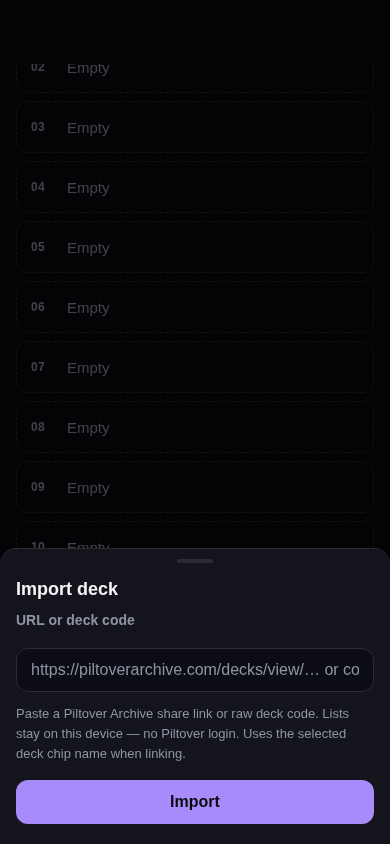
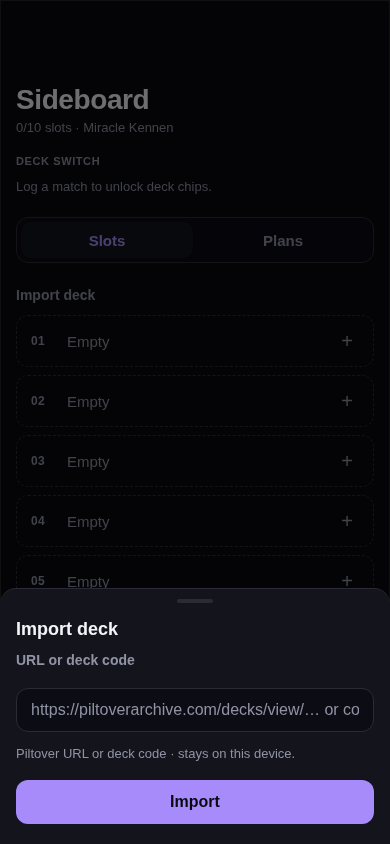
Fix Soft QA Sideboard IA: visible Import link, empty +, shorter copy.
Move Import deck above the slots list so the sheet is reachable without
scrolling, add muted trailing + on empty SlotTiles, and trim DECK SWITCH
and Import sheet helper text to one line each.

diff --git a/app/(tabs)/sideboard.tsx b/app/(tabs)/sideboard.tsx
@@ -484,9 +484,8 @@ export default function SideboardScreen() {
               ))}
             </View>
           ) : (
-            <Text style={styles.hint}>
-              Log a match to unlock deck chips. Sideboard stays keyed to the
-              selected deck name.
+            <Text style={styles.hint} numberOfLines={1}>
+              Log a match to unlock deck chips.
             </Text>
           )}
         </View>
@@ -499,6 +498,16 @@ export default function SideboardScreen() {
 
         {tab === 'Slots' ? (
           <View style={styles.block}>
+            <Pressable
+              onPress={() => setImportOpen(true)}
+              hitSlop={8}
+              accessibilityRole="button"
+              accessibilityLabel="Import deck"
+              style={styles.quietLink}
+            >
+              <Text style={styles.quietLinkText}>Import deck</Text>
+            </Pressable>
+
             <View style={styles.slots}>
               {Array.from({ length: SIDEBOARD_MAX }).map((_, index) => {
                 const slotName = cards[index];
@@ -530,15 +539,6 @@ export default function SideboardScreen() {
                 );
               })}
             </View>
-
-            <Pressable
-              onPress={() => setImportOpen(true)}
-              hitSlop={8}
-              accessibilityRole="button"
-              style={styles.quietLink}
-            >
-              <Text style={styles.quietLinkText}>Import deck</Text>
-            </Pressable>
 
             {linkedDeck && autoEnriching ? (
               <Text style={styles.linkMeta}>Resolving names…</Text>
@@ -665,9 +665,7 @@ export default function SideboardScreen() {
               autoCapitalize="none"
             />
             <Text style={styles.hint}>
-              Paste a Piltover Archive share link or raw deck code. Lists stay
-              on this device — no Piltover login. Uses the selected deck chip
-              name when linking.
+              Piltover URL or deck code · stays on this device.
             </Text>
             <View style={styles.importActions}>
               <PrimaryButton
@@ -831,8 +829,9 @@ const styles = StyleSheet.create({
     marginTop: 2,
   },
   quietLink: {
-    alignItems: 'center',
-    paddingVertical: 10,
+    alignSelf: 'flex-start',
+    paddingVertical: 4,
+    paddingBottom: 2,
   },
   quietLinkText: {
     color: colors.textSecondary,

diff --git a/src/components/SlotTile.tsx b/src/components/SlotTile.tsx
@@ -101,7 +101,12 @@ export function SlotTile({
           ) : null}
         </>
       ) : (
-        <Text style={styles.placeholder}>Empty</Text>
+        <>
+          <Text style={styles.placeholder}>Empty</Text>
+          <Text style={styles.addHint} accessibilityElementsHidden importantForAccessibility="no">
+            +
+          </Text>
+        </>
       )}
     </View>
   );
@@ -187,6 +192,13 @@ const styles = StyleSheet.create({
     flex: 1,
     color: colors.inactive,
     ...typography.body,
+  },
+  addHint: {
+    color: colors.inactive,
+    fontSize: 20,
+    fontWeight: '400',
+    lineHeight: 24,
+    paddingHorizontal: 6,
   },
   clearHit: {
     width: 36,
